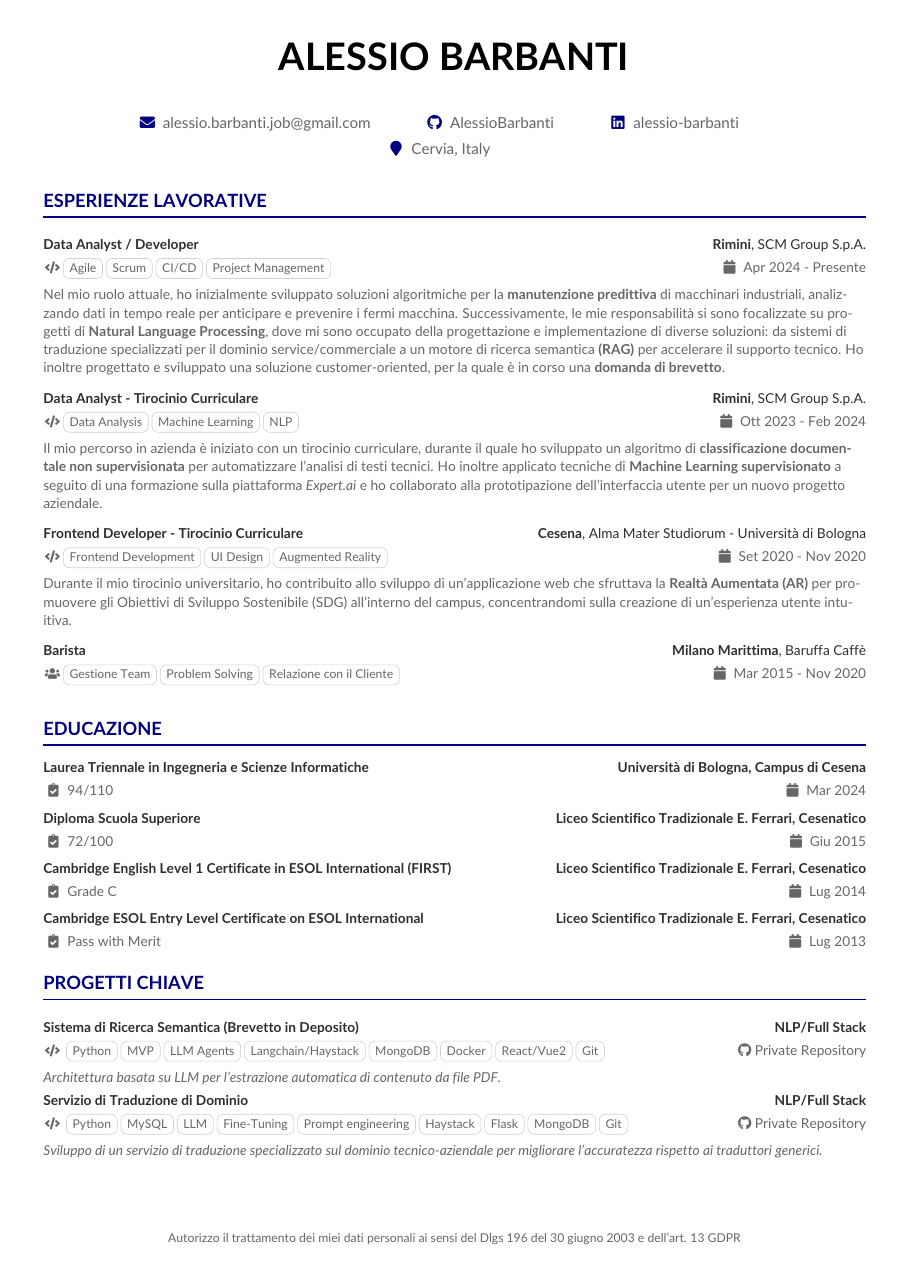
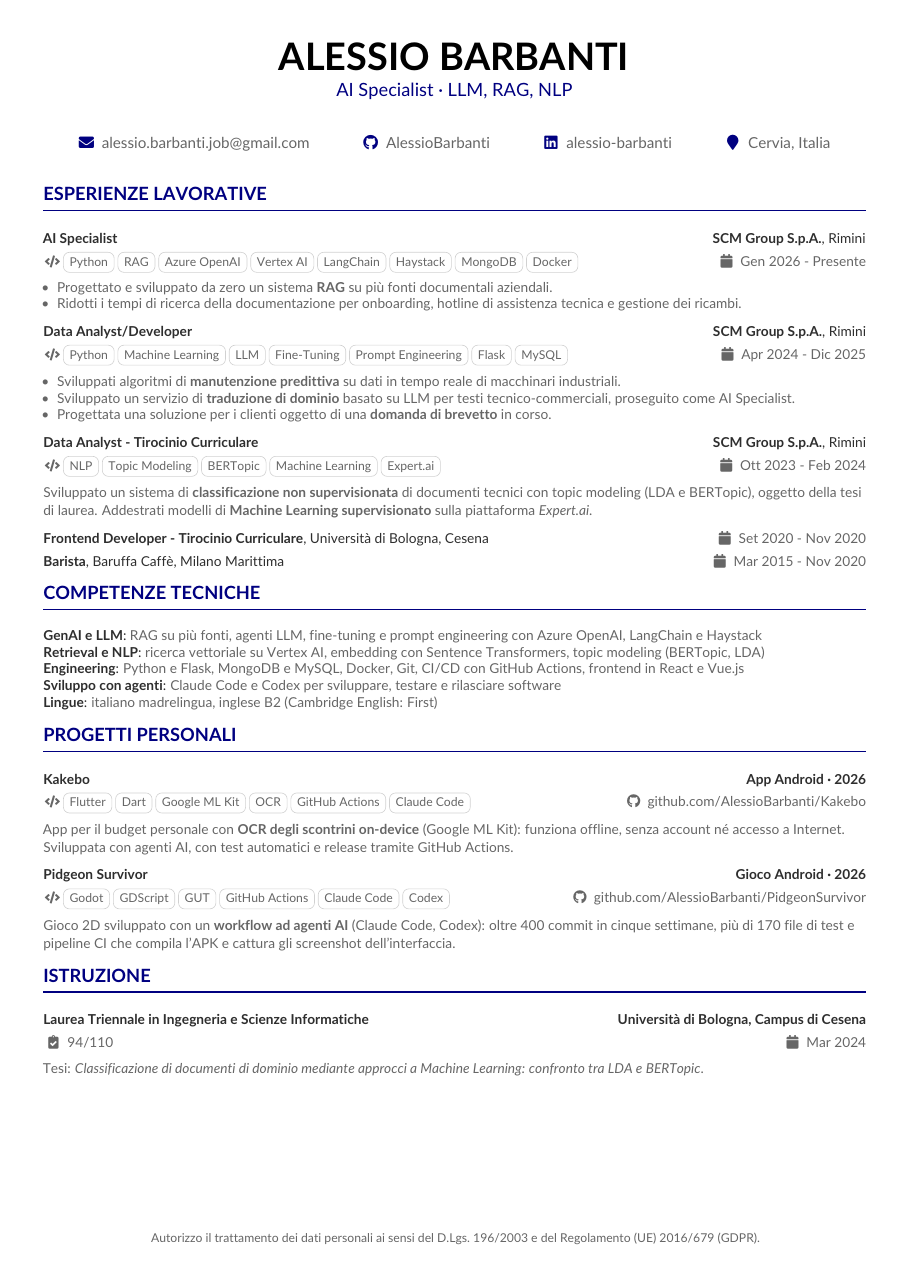
Rewrite the CV for AI specialist roles
- SCM split into AI Specialist (since Jan 2026) and Data Analyst/Developer,
  with bullet points; work under NDA described in generic terms
- new Technical Skills section, phrased as capabilities
- personal projects (Kakebo, Pidgeon Survivor) replace the private SCM ones
- thesis title added; old certificates and diploma removed
- contacts on one row; minor roles reduced to one line
- class: optional tagline, compact bullet list, \cvskill, no hyphenation
  so ATS read whole words, \cvsection safe after a paragraph

diff --git a/src/sections/experience.tex b/src/sections/experience.tex
@@ -1,17 +1,24 @@
 \cvsection{Esperienze Lavorative}
 \smallskip
-\cvexperience{Data Analyst / Developer}{SCM Group S.p.A.}{Apr 2024 - Presente}{Rimini}{\footnotesize\faCode\hspace{1pt}\cvtag{Agile}\cvtag{Scrum}\cvtag{CI/CD}\cvtag{Project Management}}
-{\small Nel mio ruolo attuale, ho inizialmente sviluppato soluzioni algoritmiche per la \textbf{manutenzione predittiva} di macchinari industriali, analizzando dati in tempo reale per anticipare e prevenire i fermi macchina. Successivamente, le mie responsabilità si sono focalizzate su progetti di \textbf{Natural Language Processing}, dove mi sono occupato della progettazione e implementazione di diverse soluzioni: da sistemi di traduzione specializzati per il dominio service/commerciale a un motore di ricerca semantica \textbf{(RAG)} per accelerare il supporto tecnico. Ho inoltre progettato e sviluppato una soluzione customer-oriented, per la quale è in corso una \textbf{domanda di brevetto}.}
-
-\vspace{8pt}
-\cvexperience{Data Analyst - Tirocinio Curriculare}{SCM Group S.p.A.}{Ott 2023 - Feb 2024}{Rimini}{\footnotesize\faCode\hspace{1pt}\cvtag{Data Analysis}\cvtag{Machine Learning}\cvtag{NLP}}
-{\small Il mio percorso in azienda è iniziato con un tirocinio curriculare, durante il quale ho sviluppato un algoritmo di \textbf{classificazione documentale non supervisionata} per automatizzare l'analisi di testi tecnici. Ho inoltre applicato tecniche di \textbf{Machine Learning supervisionato} a seguito di una formazione sulla piattaforma \href{https://www.expert.ai/}{\textit{Expert.ai}} e ho collaborato alla prototipazione dell'interfaccia utente per un nuovo progetto aziendale.}
-
-\vspace{8pt}
-\cvexperience{Frontend Developer - Tirocinio Curriculare}{Alma Mater Studiorum - Università di Bologna}{Set 2020 - Nov 2020}{Cesena}{\footnotesize\faCode\hspace{1pt}\cvtag{Frontend Development}\cvtag{UI Design}\cvtag{Augmented Reality}}
-{\small Durante il mio tirocinio universitario, ho contribuito allo sviluppo di un'applicazione web che sfruttava la \textbf{Realtà Aumentata (AR)} per promuovere gli Obiettivi di Sviluppo Sostenibile (SDG) all'interno del campus, concentrandomi sulla creazione di un'esperienza utente intuitiva.}
-
-\vspace{8pt}
-\cvexperience{Barista}{Baruffa Caffè}{Mar 2015 - Nov 2020}{Milano Marittima}{\footnotesize\faUsers\hspace{1pt}\cvtag{Gestione Team}\cvtag{Problem Solving}\cvtag{Relazione con il Cliente}}
+\cvexperience{AI Specialist}{SCM Group S.p.A.}{Gen 2026 - Presente}{Rimini}{\cvtag{Python}\cvtag{RAG}\cvtag{Azure OpenAI}\cvtag{Vertex AI}\cvtag{LangChain}\cvtag{Haystack}\cvtag{MongoDB}\cvtag{Docker}}
+\begin{cvitems}
+  \item Progettato e sviluppato da zero un sistema \textbf{RAG} su più fonti documentali aziendali.
+  \item Ridotti i tempi di ricerca della documentazione per onboarding, hotline di assistenza tecnica e gestione dei ricambi.
+\end{cvitems}
 
 \medskip
+\cvexperience{Data Analyst/Developer}{SCM Group S.p.A.}{Apr 2024 - Dic 2025}{Rimini}{\cvtag{Python}\cvtag{Machine Learning}\cvtag{LLM}\cvtag{Fine-Tuning}\cvtag{Prompt Engineering}\cvtag{Flask}\cvtag{MySQL}}
+\begin{cvitems}
+  \item Sviluppati algoritmi di \textbf{manutenzione predittiva} su dati in tempo reale di macchinari industriali.
+  \item Sviluppato un servizio di \textbf{traduzione di dominio} basato su LLM per testi tecnico-commerciali, proseguito come AI Specialist.
+  \item Progettata una soluzione per i clienti oggetto di una \textbf{domanda di brevetto} in corso.
+\end{cvitems}
+
+\medskip
+\cvexperience{Data Analyst - Tirocinio Curriculare}{SCM Group S.p.A.}{Ott 2023 - Feb 2024}{Rimini}{\cvtag{NLP}\cvtag{Topic Modeling}\cvtag{BERTopic}\cvtag{Machine Learning}\cvtag{Expert.ai}}
+{\small Sviluppato un sistema di \textbf{classificazione non supervisionata} di documenti tecnici con topic modeling (LDA e BERTopic), oggetto della tesi di laurea. Addestrati modelli di \textbf{Machine Learning supervisionato} sulla piattaforma \href{https://www.expert.ai/}{\textit{Expert.ai}}.}
+
+\medskip
+\cvrow{\small\color{emphasis}\textbf{Frontend Developer - Tirocinio Curriculare}, Università di Bologna, Cesena}{\small\faCalendar~Set 2020 - Nov 2020}
+\smallskip
+\cvrow{\small\color{emphasis}\textbf{Barista}, Baruffa Caffè, Milano Marittima}{\small\faCalendar~Mar 2015 - Nov 2020}

diff --git a/src/sections/projects.tex b/src/sections/projects.tex
@@ -1,19 +1,8 @@
-\cvsection{Progetti Chiave}
+\cvsection{Progetti Personali}
 \smallskip
-\cvproject
-{\textbf{Sistema di Ricerca Semantica (Brevetto in Deposito)}} % Titolo
-{NLP/Full Stack} % Sottotitolo
-{\footnotesize\hspace{1pt}\cvtag{Python}\cvtag{MVP}\cvtag{LLM Agents}\cvtag{Langchain/Haystack}\cvtag{MongoDB}\cvtag{Docker}\cvtag{React/Vue2}\cvtag{Git}} % Tecnologie
-{Private Repository} % Link
-{\small\textit{Architettura basata su LLM per l'estrazione automatica di contenuto da file PDF.}}
-
-\smallskip
-
-\cvproject
-{\textbf{Servizio di Traduzione di Dominio}} % Titolo
-{NLP/Full Stack} % Sottotitolo
-{\footnotesize\hspace{1pt}\cvtag{Python}\cvtag{MySQL}\cvtag{LLM}\cvtag{Fine-Tuning}\cvtag{Prompt engineering}\cvtag{Haystack}\cvtag{Flask}\cvtag{MongoDB}\cvtag{Git}} % Tecnologie
-{Private Repository} % Link
-{\small\textit{Sviluppo di un servizio di traduzione specializzato sul dominio tecnico-aziendale per migliorare l'accuratezza rispetto ai traduttori generici.}}
+\cvproject{Kakebo}{App Android · 2026}{\cvtag{Flutter}\cvtag{Dart}\cvtag{Google ML Kit}\cvtag{OCR}\cvtag{GitHub Actions}\cvtag{Claude Code}}{\href{https://github.com/AlessioBarbanti/Kakebo}{github.com/AlessioBarbanti/Kakebo}}
+{\small App per il budget personale con \textbf{OCR degli scontrini on-device} (Google ML Kit): funziona offline, senza account né accesso a Internet. Sviluppata con agenti AI, con test automatici e release tramite GitHub Actions.}
 
 \medskip
+\cvproject{Pidgeon Survivor}{Gioco Android · 2026}{\cvtag{Godot}\cvtag{GDScript}\cvtag{GUT}\cvtag{GitHub Actions}\cvtag{Claude Code}\cvtag{Codex}}{\href{https://github.com/AlessioBarbanti/PidgeonSurvivor}{github.com/AlessioBarbanti/PidgeonSurvivor}}
+{\small Gioco 2D sviluppato con un \textbf{workflow ad agenti AI} (Claude Code, Codex): oltre 400 commit in cinque settimane, più di 170 file di test e pipeline CI che compila l'APK e cattura gli screenshot dell'interfaccia.}

diff --git a/src/cv.tex b/src/cv.tex
@@ -4,19 +4,21 @@
 
 \begin{document}
 \name{Alessio Barbanti}
+\tagline{AI Specialist · LLM, RAG, NLP}
 \makecvheader
 
 \begin{center}
-\begin{tabular}{c c c}
-    \email{alessio.barbanti.job@gmail.com} & \github{AlessioBarbanti} & \linkedin{alessio-barbanti} \\[1ex]
-    \multicolumn{3}{c}{\location{Cervia, Italy}}
+\setlength{\tabcolsep}{1.5em} % space between contacts, symmetric so the row stays centred
+\begin{tabular}{c c c c}
+    \email{alessio.barbanti.job@gmail.com} & \github{AlessioBarbanti} & \linkedin{alessio-barbanti} & \location{Cervia, Italia}
 \end{tabular}
 \end{center}
 
 \input{sections/experience.tex}
-\input{sections/education.tex}
+\input{sections/skills.tex}
 \input{sections/projects.tex}
+\input{sections/education.tex}
 
 \vspace*{\fill}
-{\footnotesize\centering Autorizzo il trattamento dei miei dati personali ai sensi del Dlgs 196 del 30 giugno 2003 e dell’art. 13 GDPR\par}
+{\footnotesize\centering Autorizzo il trattamento dei dati personali ai sensi del D.Lgs.~196/2003 e del Regolamento (UE) 2016/679 (GDPR).\par}
 \end{document}

diff --git a/src/sections/education.tex b/src/sections/education.tex
@@ -1,5 +1,4 @@
-\cvsection{Educazione}
+\cvsection{Istruzione}
+\smallskip
 \cveducation{Laurea Triennale in Ingegneria e Scienze Informatiche}{Università di Bologna, Campus di Cesena}{Mar 2024}{94/110}
-\cveducation{Diploma Scuola Superiore}{Liceo Scientifico Tradizionale E. Ferrari, Cesenatico}{Giu 2015}{72/100}
-\cveducation{Cambridge English Level 1 Certificate in ESOL International (FIRST)}{Liceo Scientifico Tradizionale E. Ferrari, Cesenatico}{Lug 2014}{Grade C}
-\cveducation{Cambridge ESOL Entry Level Certificate on ESOL International}{Liceo Scientifico Tradizionale E. Ferrari, Cesenatico}{Lug 2013}{Pass with Merit}
+{\small Tesi: \textit{Classificazione di documenti di dominio mediante approcci a Machine Learning: confronto tra LDA e BERTopic}.\par}

diff --git a/src/sections/skills.tex b/src/sections/skills.tex
@@ -1,0 +1,9 @@
+\cvsection{Competenze Tecniche}
+\smallskip
+{\small
+\cvskill{GenAI e LLM}{RAG su più fonti, agenti LLM, fine-tuning e prompt engineering con Azure OpenAI, LangChain e Haystack}
+\cvskill{Retrieval e NLP}{ricerca vettoriale su Vertex AI, embedding con Sentence Transformers, topic modeling (BERTopic, LDA)}
+\cvskill{Engineering}{Python e Flask, MongoDB e MySQL, Docker, Git, CI/CD con GitHub Actions, frontend in React e Vue.js}
+\cvskill{Sviluppo con agenti}{Claude Code e Codex per sviluppare, testare e rilasciare software}
+\cvskill{Lingue}{italiano madrelingua, inglese B2 (Cambridge English: First)}
+}

diff --git a/.claude/agents/cv-revisore.md b/.claude/agents/cv-revisore.md
@@ -4,17 +4,18 @@ description: Revisore del CONTENUTO del curriculum (LaTeX in src/cv.tex e src/se
 tools: Read, Grep, Glob
 ---
 
-Sei un recruiter tecnico senior italiano che legge centinaia di CV per ruoli da sviluppatore, data/ML engineer e NLP/LLM engineer. Rivedi il **contenuto** di questo curriculum.
+Sei un recruiter tecnico senior italiano che legge centinaia di CV per ruoli da AI specialist e AI/LLM engineer (LLM, RAG, NLP). Rivedi il **contenuto** di questo curriculum.
 
 ## Dove guardare
 - `src/cv.tex`: header, ordine delle sezioni, footer privacy.
 - `src/sections/*.tex`: le sezioni. Un file non incluso con `\input` in `src/cv.tex` non compare nel PDF; le righe che iniziano con `%` sono commentate.
 - Macro in `src/cv.cls`: `\cvexperience{ruolo}{azienda}{date}{luogo}{tag}` + testo, `\cvproject{titolo}{sottotitolo}{tag}{link}{descrizione}`, `\cveducation{titolo}{ente}{data}{voto}`, `\cvtag{...}`.
 - Vincolo: il CV deve stare in **una pagina**, una colonna, ATS-friendly.
+- L'esperienza in SCM Group è coperta da **NDA**: resta volutamente generica. Non chiedere metriche, nomi di sistemi o dettagli interni; valuta solo come è formulata.
 
 ## Cosa valuti
 1. **Impatto**: ogni esperienza dice cosa è stato fatto in prima persona e con quale risultato? Mancano numeri (tempi ridotti, utenti, volumi di dati, accuratezza)? Se mancano, **chiedi** il dato: non inventare mai numeri, tecnologie o risultati.
-2. **Coerenza**: i `\cvtag` rispecchiano davvero il testo (e viceversa)? Ruoli, date e progetti sono coerenti tra esperienze e "Progetti Chiave"? Ci sono duplicazioni che sprecano spazio?
+2. **Coerenza**: i `\cvtag` rispecchiano davvero il testo (e viceversa)? Ruoli, date e progetti sono coerenti tra esperienze e "Progetti Personali"? Ci sono duplicazioni che sprecano spazio?
 3. **Rilevanza**: cosa toglie spazio senza aggiungere valore per un ruolo tech (esperienze non pertinenti, certificati vecchi, dettagli scolastici)? Proponi di tagliare o comprimere, motivando.
 4. **Lacune**: sezioni che un recruiter si aspetta e non trova (es. competenze tecniche, lingue), o tecnologie usate ma mai nominate.
 5. **Rischi**: affermazioni vaghe o non verificabili, dettagli riservati (brevetti in deposito, nomi di progetti interni), footer privacy con riferimenti normativi superati.

diff --git a/README.md b/README.md
@@ -8,7 +8,7 @@ My CV, written in LaTeX: one page, readable by applicant tracking systems (ATS),
 
 ## What's inside
 
-- **ATS-friendly PDF.** The text layer matches what is printed: ligatures are disabled (`fi` stays two letters), icons are hidden from text extraction, and the file is PDF/A-1b.
+- **ATS-friendly PDF.** The text layer matches what is printed: ligatures are disabled (`fi` stays two letters), words are never split across lines, icons are hidden from text extraction, and the file is PDF/A-1b.
 - **Checked build.** `scripts/build.py` fails if the CV spills onto a second page or if any text crosses the margins or overlaps other text, and shows which text.
 - **Review agents.** Two [Claude Code](https://claude.com/claude-code) subagents review the CV: one for content, one for style.
 
@@ -16,7 +16,7 @@ My CV, written in LaTeX: one page, readable by applicant tracking systems (ATS),
 
 ```
 src/cv.tex             header, section order, footer
-src/sections/          one file per section: experience, education, projects
+src/sections/          one file per section: experience, skills, projects, education
 src/cv.cls             layout and macros: \cvexperience, \cveducation, \cvproject, \cvtag
 scripts/build.py       build, checks, preview and release
 scripts/test_build.py  tests for the log checks in build.py
